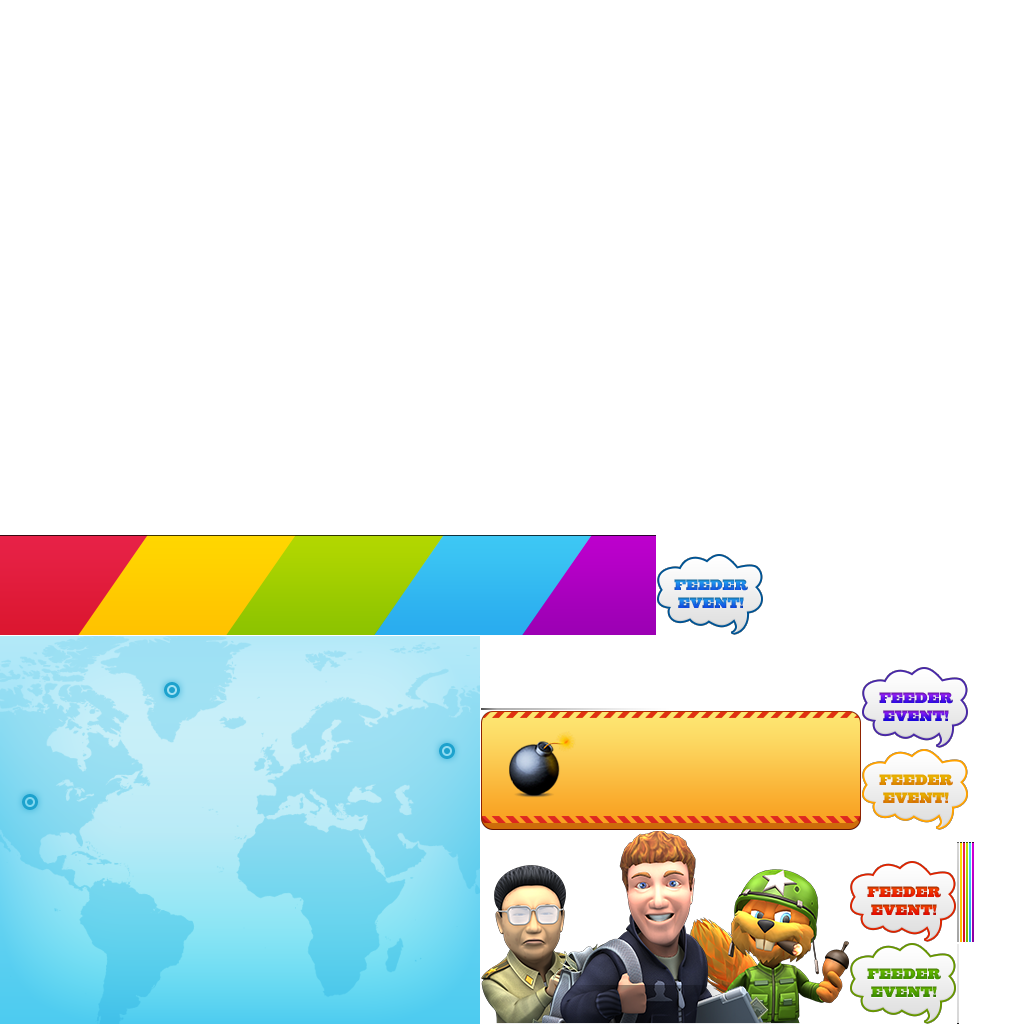
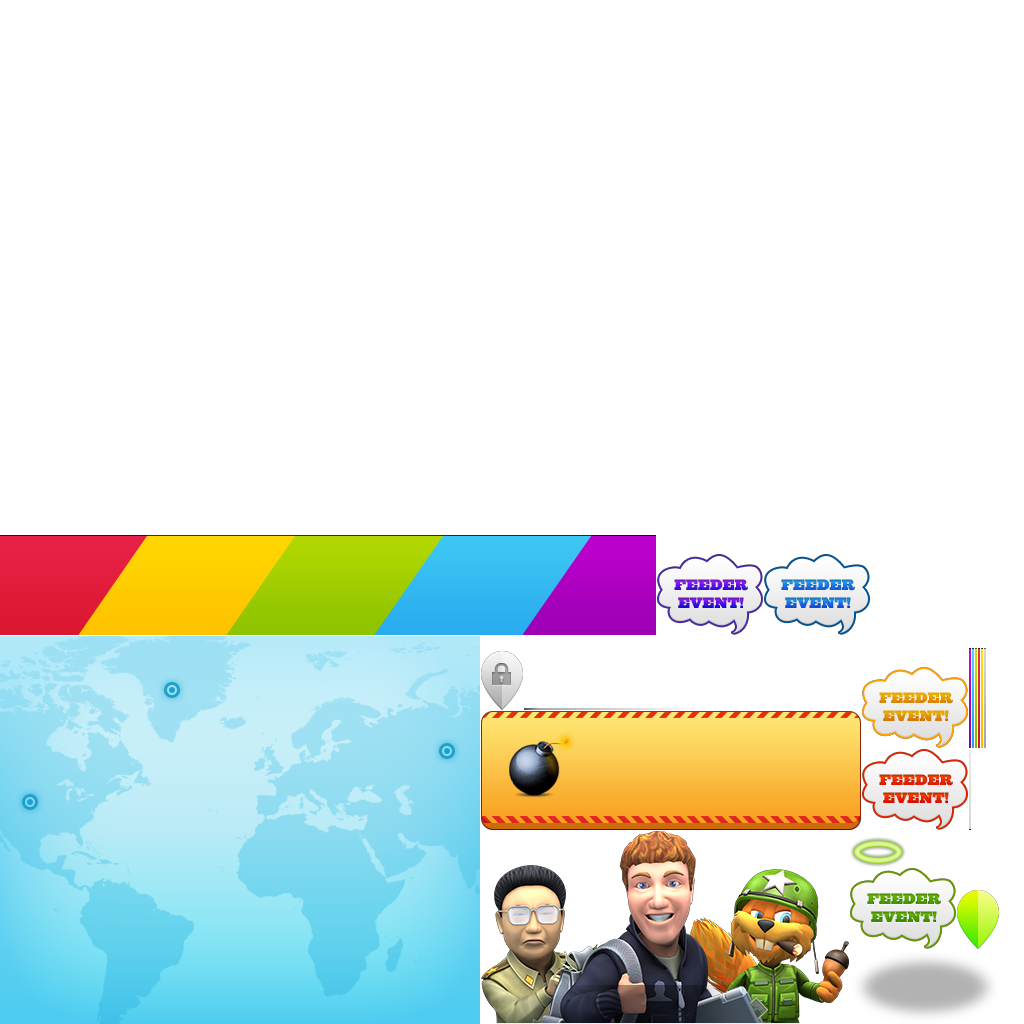
maptask shadows and bandaid map popups

Changed region(s): [[0.8125, 0.625, 1.0, 1.0], [0.6562, 0.5312, 0.8438, 0.625], [0.4688, 0.625, 0.5312, 0.6875]]

diff --git a/Assets/Code/MobSquad/City/UI/CityScreen/MSMapTaskPopupSwitcher.cs b/Assets/Code/MobSquad/City/UI/CityScreen/MSMapTaskPopupSwitcher.cs
@@ -75,13 +75,13 @@ public class MSMapTaskPopupSwitcher : MonoBehaviour {
 		if(curPopup != Popup.A)
 		{
 			mapTaskA.init(proto, type);
-			swapper.SwapIn(mapTaskA.gameObject,delegate { ZeroAnchors(mapTaskA.GetComponent<UISprite>()); });
+			swapper.SwapIn(mapTaskA.gameObject, delegate {}, ZeroAnchors(mapTaskA.GetComponent<UISprite>()));
 			curPopup = Popup.A;
 		}
 		else
 		{
 			mapTaskB.init(proto, type);
-			swapper.SwapIn(mapTaskB.gameObject,delegate { ZeroAnchors(mapTaskB.GetComponent<UISprite>()); });
+			swapper.SwapIn(mapTaskB.gameObject, delegate {}, ZeroAnchors(mapTaskB.GetComponent<UISprite>()));
 			curPopup = Popup.B;
 		}
 	}
@@ -92,12 +92,12 @@ public class MSMapTaskPopupSwitcher : MonoBehaviour {
 		{
 		case PersistentEventProto.EventType.ENHANCE:
 			enhanceEvent.init(pEvent);
-			swapper.SwapIn(enhanceEvent.gameObject,delegate { ZeroAnchors(enhanceEvent.GetComponent<UISprite>()); });
+			swapper.SwapIn(enhanceEvent.gameObject, delegate {}, ZeroAnchors(enhanceEvent.GetComponent<UISprite>()));
 			curPopup = Popup.ENHANCE;
 			break;
 		case PersistentEventProto.EventType.EVOLUTION:
 			evolutionEvent.init(pEvent);
-			swapper.SwapIn(evolutionEvent.gameObject,delegate { ZeroAnchors(evolutionEvent.GetComponent<UISprite>()); });
+			swapper.SwapIn(evolutionEvent.gameObject, delegate {}, ZeroAnchors(evolutionEvent.GetComponent<UISprite>()));
 			curPopup = Popup.EVO;
 			break;
 		default:
@@ -106,14 +106,17 @@ public class MSMapTaskPopupSwitcher : MonoBehaviour {
 		}
 	}
 
-	void ZeroAnchors(UIWidget widget)
+	bool ZeroAnchors(UIWidget widget)
 	{
-//		Debug.Log("before " + widget.rightAnchor.absolute + ":" + widget.leftAnchor.absolute);
+		bool wrong = widget.rightAnchor.absolute != 0 || widget.leftAnchor.absolute != 0;
+		Debug.Log("before " + widget.rightAnchor.absolute + ":" + widget.leftAnchor.absolute);
 		widget.rightAnchor.absolute = 0;
 		widget.leftAnchor.absolute = 0;
 		widget.ResetAnchors();
 		widget.UpdateAnchors();
-//		Debug.Log("after " + widget.rightAnchor.absolute + ":" + widget.leftAnchor.absolute);
+		Debug.Log("after " + widget.rightAnchor.absolute + ":" + widget.leftAnchor.absolute);
+
+		return wrong;
 	}
 
 	/// <summary>

diff --git a/Assets/Code/MobSquad/City/UI/Popups/MSPopupSwapper.cs b/Assets/Code/MobSquad/City/UI/Popups/MSPopupSwapper.cs
@@ -139,6 +139,16 @@ public class MSPopupSwapper : MonoBehaviour {
 	/// </summary>
 	/// <param name="newPopup">New popup.</param>
 	/// <param name="NewAction">New action.</param>
+//	public void SwapIn(GameObject newPopup, bool forceNewOrigin = false)
+//	{
+//
+//	}
+
+	/// <summary>
+	/// Convenience function for swapping in a new popup.
+	/// </summary>
+	/// <param name="newPopup">New popup.</param>
+	/// <param name="NewAction">New action.</param>
 	public void SwapIn(GameObject newPopup, Action NewAction = null, bool forceNewOrigin = false)
 	{
 		if(activePopup == Popup.A)

diff --git a/Assets/Code/MobSquad/City/UI/Buttons/MSMapTaskButton.cs b/Assets/Code/MobSquad/City/UI/Buttons/MSMapTaskButton.cs
@@ -24,6 +24,9 @@ public class MSMapTaskButton : MonoBehaviour {
 	UILabel levelTitle;
 
 	[SerializeField]
+	UISprite shadow;
+
+	[SerializeField]
 	Color unlockedTextColor;
 
 	[SerializeField]
@@ -80,6 +83,7 @@ public class MSMapTaskButton : MonoBehaviour {
 
 		buttonLabel.depth = GetComponent<UISprite> ().depth + 1;
 		halo.depth = buttonLabel.depth - 2;
+		shadow.depth = buttonLabel.depth - 2;
 
 		buttonLabel.text = task.mapElementId.ToString();
 		levelTitle.text = MSDataManager.instance.Get<FullTaskProto> (task.taskId).name;

diff --git a/Assets/Code/MobSquad/City/UI/MSHoverBar.cs b/Assets/Code/MobSquad/City/UI/MSHoverBar.cs
@@ -62,7 +62,7 @@ public class MSHoverBar : MonoBehaviour {
 			
 			currBuilding = building;
 			
-			if (building.locallyOwned)
+			if (building.locallyOwned && building.combinedProto.structInfo.structType != com.lvl6.proto.StructureInfoProto.StructType.MINI_JOB)
 			{
 				gameObj.SetActive(true);
 			}
